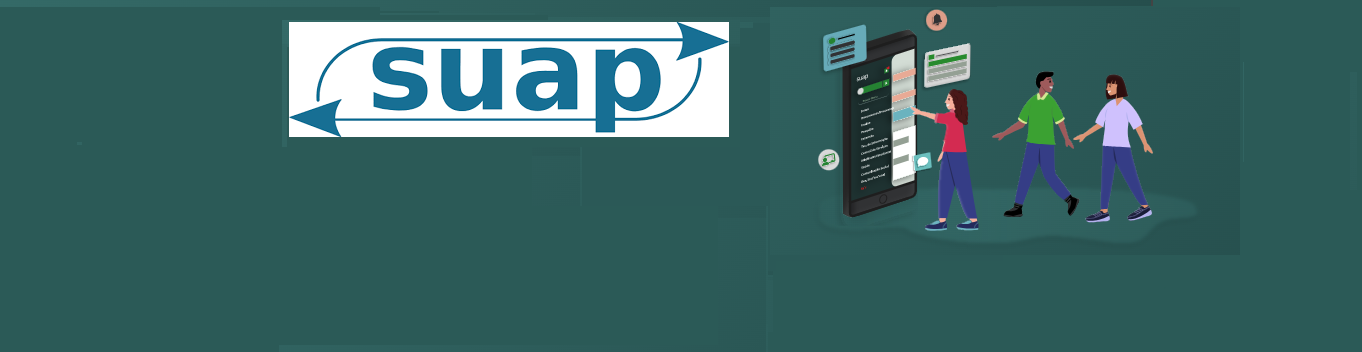
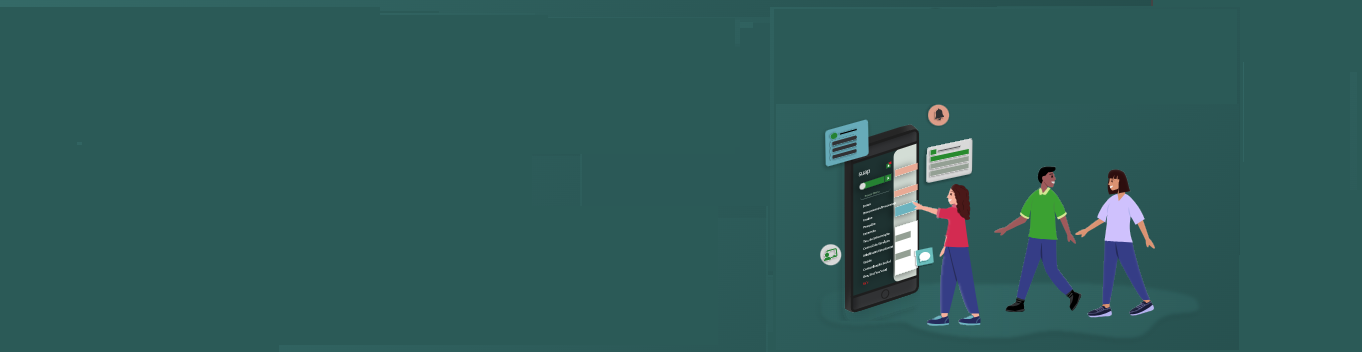
corrigindo imagem css

Changed region(s): [[0.5859, 0.0625, 0.8634, 0.9375], [0.185, 0.0625, 0.5551, 0.4062], [0.6784, 0.0312, 0.7093, 0.0938]]

diff --git a/index.html b/index.html
@@ -16,18 +16,11 @@
         <title>Implantação SUAP-Ensino - IFS campus Aracaju</title>
     </head>
     <body>
-        <header class="header-container">
-            <section class="nav-top-section">
-                <section class="nav-sub-section">
-                    <section class="form-logo-section">
-                        <img class="form-logo-store" src="./images/small_IFS.png" alt="Logo Store" />
-                    </section>
-
-             </section>  
-                
+        <header class="header-container">             
             </section>
             <section class="banner-top-section">
                 <section class="banner-sub-section">
+                    <img class="form-logo-store" src="./images/small_IFS.png" alt="Logo Store" />
                     <h2 class="banner-titulo">Comissão SUAP - Ensino </h2>
                     <p class="banner-texto">Site para apoio durante implantação do SUAP - Módulo Ensino no IFS - campus Aracaju</p>
                  </section>

diff --git a/css/style.css b/css/style.css
@@ -125,18 +125,13 @@ body {
 /* CSS BANNER PROMOÇÃO */
 
 .banner-top-section {
-    display: flex;
-    flex-direction: column;
-    justify-content: flex-end;
+
     align-items: center;
-    padding: 32px;
-    max-width: 1440px;
-    height: 352px;
+    padding: 52px;
+    max-width: 100%;
+    height: auto;
     background-image: url(../images/suap_header.png);
-    background-position: center;
-    background-repeat: no-repeat;
-    background-size: cover;
-    position: relative;
+    background-position: bottom;
     align-self: stretch;
 }
 
@@ -152,14 +147,14 @@ body {
 .banner-titulo {
     font-weight: 700;
     font-size: 52px;
-    line-height: 61px;
+    line-height: 50px;
     color: #ffffff;
 }
 
 .banner-texto {
     font-weight: 700;
     font-size: 22px;
-    line-height: 26px;
+    line-height: 10px;
     color: #ffffff;
     margin: 16px 0;
 }
